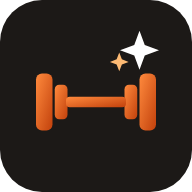
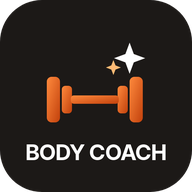
Cortex: fila divide tarefa na 3ª falha, assetlinks soma digitais, ícone do Body Coach com o nome
Claude-Session: https://claude.ai/code/session_01PUFwwAxWjj2KxLM3SCA1LX

diff --git a/scripts/cortex-fila.js b/scripts/cortex-fila.js
@@ -7,6 +7,7 @@ const REPO = process.env.REPO || 'gilcambe/nexia';
 const BASE_URL = process.env.NEXIA_URL || 'https://nexia.gcbezerra.workers.dev';
 const PISTAS = 3;
 const MAX_TENTATIVAS = 12;
+const TENTATIVAS_ATE_DIVIDIR = 3;
 const CONFIAVEIS = ['OWNER', 'MEMBER', 'COLLABORATOR'];
 const L = { fila: 'cortex-fila', rodando: 'cortex-rodando', feito: 'cortex-feito', travado: 'cortex-travado', dividido: 'cortex-dividido', parte: 'cortex-parte', semDivisao: 'cortex-sem-divisao' };
 const MAX_CORPO = 2500;      // tarefa maior que isso é dividida em partes pequenas
@@ -81,6 +82,10 @@ function decidir({ issues, runs, agora = Date.now(), pistas = PISTAS }) {
       if (run.conclusion === 'success') { acoes.push({ tipo: 'concluir', numero: i.number, run: run.id, corpo: String(i.body || '') }); continue; }
       if (run.cota) { acoes.push({ tipo: 'reenfileirar', numero: i.number, tentativa: numeroDe(ls, 'tentativa'), run: run.id, conclusao: 'cota do banco' }); continue; }
       const t = numeroDe(ls, 'tentativa') + 1;
+      // Falhou 3 vezes inteira: o modelo grátis não dá conta do tamanho. Divide em partes pequenas em vez de repetir até travar.
+      if (t === TENTATIVAS_ATE_DIVIDIR && !parteDe(i) && !ls.includes(L.parte) && !ls.includes(L.dividido) && !ls.includes(L.semDivisao)) {
+        acoes.push({ tipo: 'dividir', numero: i.number, titulo: i.title || '', tarefa: String(i.body || '').trim(), limpar: true, tentativa: t }); continue;
+      }
       acoes.push(t >= MAX_TENTATIVAS
         ? { tipo: 'travar', numero: i.number, tentativas: t, run: run.id }
         : { tipo: 'reenfileirar', numero: i.number, tentativa: t, run: run.id, conclusao: run.conclusion });
@@ -195,6 +200,12 @@ async function executar(token, acao, dividir) {
   const delLabel = l => gh(token, 'DELETE', `/issues/${n}/labels/${encodeURIComponent(l)}`);
   const comentar = t => gh(token, 'POST', `/issues/${n}/comments`, { body: `${t}\n\n---\n_Generated by [Claude Code](https://claude.ai/code)_` });
   if (acao.tipo === 'dividir') {
+    if (acao.limpar) {
+      // Veio de uma tarefa que falhou: sai da pista (rodando) e anota a tentativa; se a divisão falhar, ela volta inteira para a fila.
+      await delLabel(L.rodando);
+      for (const k of [1, 2, 3]) await delLabel(`pista-${k}`).catch(() => null);
+      if (acao.tentativa) await addLabel(`tentativa-${acao.tentativa}`);
+    }
     const partes = dividir ? await dividir(acao.tarefa) : null;
     if (!partes) { await addLabel(L.semDivisao); await comentar('Não consegui dividir esta tarefa agora; ela segue inteira.'); return; }
     const criadas = [];
@@ -323,5 +334,5 @@ async function main() {
   }
 }
 
-module.exports = { caminhosDoPedido, sondarCota, decidir, precisaTesteFinal, precisaDividir, paisConcluidos, dividirComIA, MAX_TENTATIVAS };
+module.exports = { TENTATIVAS_ATE_DIVIDIR, caminhosDoPedido, sondarCota, decidir, precisaTesteFinal, precisaDividir, paisConcluidos, dividirComIA, MAX_TENTATIVAS };
 if (require.main === module) main().catch(e => { console.error(e.message); process.exit(1); });

diff --git a/tests/unit/cortex-fila.test.js b/tests/unit/cortex-fila.test.js
@@ -19,9 +19,9 @@ test('CF2. ignora Issue de quem não é dono/membro/colaborador e pull requests'
 });
 
 test('CF3. execução com sucesso conclui; falha reenfileira com tentativa+1', () => {
-  const a = decidir({ issues: [issue(1, ['cortex-rodando', 'pista-1']), issue(2, ['cortex-rodando', 'pista-2', 'tentativa-2'])], runs: [run(1, 'completed', 'success'), run(2, 'completed', 'failure')], agora: AGORA });
+  const a = decidir({ issues: [issue(1, ['cortex-rodando', 'pista-1']), issue(2, ['cortex-rodando', 'pista-2', 'tentativa-3'])], runs: [run(1, 'completed', 'success'), run(2, 'completed', 'failure')], agora: AGORA });
   assert.equal(a[0].tipo, 'concluir');
-  assert.deepEqual([a[1].tipo, a[1].tentativa], ['reenfileirar', 3]);
+  assert.deepEqual([a[1].tipo, a[1].tentativa], ['reenfileirar', 4]);
 });
 
 test('CF4. na última tentativa trava e avisa', () => {
@@ -115,4 +115,17 @@ test('FILA-CAM: caminhosDoPedido pega só arquivos entre crases com pasta', () =
   const { caminhosDoPedido } = require('../../scripts/cortex-fila');
   assert.deepEqual(caminhosDoPedido('Crie `src/a/b.ts` e `README.md` e `/health` e `../x/y.js` e `src/a/b.ts`'), ['src/a/b.ts']);
   assert.deepEqual(caminhosDoPedido('sem nada'), []);
+});
+
+test('FILA-DIV3. tarefa que falha 3 vezes é dividida em partes em vez de repetir até travar', () => {
+  const { decidir } = require('../../scripts/cortex-fila.js');
+  const issue = (extra = []) => ({ number: 9, title: 'NEXIA: loja grande', body: 'Faça a loja.', author_association: 'OWNER', labels: ['cortex-fila', 'cortex-rodando', 'pista-1', 'tentativa-2', ...extra].map(name => ({ name })) });
+  const runs = [{ id: 5, name: 'Cortex #9', status: 'completed', conclusion: 'failure' }];
+  const a = decidir({ issues: [issue()], runs, agora: Date.now() }).find(x => x.numero === 9);
+  assert.equal(a.tipo, 'dividir');
+  assert.equal(a.limpar, true);
+  assert.equal(a.tentativa, 3);
+  // já dividida antes (sem divisão): continua o caminho normal de repetir
+  const b = decidir({ issues: [issue(['cortex-sem-divisao'])], runs, agora: Date.now() }).find(x => x.numero === 9);
+  assert.equal(b.tipo, 'reenfileirar');
 });

diff --git a/tests/unit/divulga.test.js b/tests/unit/divulga.test.js
@@ -87,3 +87,22 @@ test('chave com quebra de linha no fim (salva pelo PowerShell) funciona', async 
   assert.ok(corpos[0].includes('/1/photos'));
   assert.ok(corpos[0].includes('access_token=tok') && !corpos[0].includes('%0D'));
 });
+
+test('Cortex: anexo de qualquer tipo vai para o ramo cortex-anexos e rodapé antigo some', async () => {
+  const { agir } = require('../../netlify/functions/central/pedidos-acoes');
+  const chamadas = [];
+  const p = { gh: async (url, init) => { chamadas.push([url, init && init.method]); if (/git\/ref\/heads\/cortex-anexos/.test(url)) throw new Error('404'); if (/heads\/develop/.test(url)) return { object: { sha: 'abc' } }; return {}; } };
+  const r = await agir(p, { acao: 'anexar', nome: 'Captura de tela (1).png', base64: 'QUJD' }, 'dono');
+  assert.equal(r.status, 200);
+  assert.match(r.corpo.caminho, /^cortex-anexos\/\d{4}-\d{2}-\d{2}-[a-z0-9]+-Captura-de-tela-1-\.png$/);
+  assert.ok(chamadas.some(([u, m]) => /git\/refs$/.test(u) && m === 'POST'));
+  assert.ok(chamadas.some(([u, m]) => /contents\/cortex-anexos\//.test(u) && m === 'PUT'));
+  assert.equal((await agir(p, { acao: 'anexar', nome: 'x', base64: 'A'.repeat(960000) }, 'dono')).status, 400);
+  assert.equal((await agir(p, { acao: 'anexar', nome: 'x', base64: '<script>' }, 'dono')).status, 400);
+  const { montarPedido } = require('../../netlify/functions/central/pedidos-pedir');
+  assert.ok(!/no celular por/i.test(montarPedido('Mudar o texto do botão no Body Coach', 'dono').body));
+  const { criarDetalhe } = require('../../netlify/functions/central/pedidos-detalhe');
+  const gh = async (u) => (/comments/.test(u) ? [] : /search/.test(u) ? { items: [] } : { number: 1, title: 't', state: 'open', labels: [], user: { login: 'a' }, created_at: 'x', updated_at: 'x', body: 'Faça isso.\n\n_Pedido pelo Cortex no celular por gil@x.com._', comments: 0 });
+  const d = await criarDetalhe(gh)(1);
+  assert.ok(!/celular/i.test(d.conversa[0].texto));
+});

diff --git a/cloudflare/app.js b/cloudflare/app.js
@@ -222,9 +222,10 @@ async function handleRequest(request, env, { getFunction }) {
   }
   if (pathname === '/.well-known/assetlinks.json') {
     const base = require('../apps/body-coach/android/assetlinks.json');
-    // Digitais da chave do app (ASSETLINKS_SHA256, separadas por vírgula): sem elas o Android abre o app como aba do Chrome.
+    // Digitais extras do app (ASSETLINKS_SHA256, separadas por vírgula): sem elas o Android abre o app como aba do Chrome.
     const digitais = String(env.ASSETLINKS_SHA256 || '').split(',').map(x => x.trim().toUpperCase()).filter(x => /^([0-9A-F]{2}:){31}[0-9A-F]{2}$/.test(x));
-    const links = digitais.length ? base.map(l => ({ ...l, target: { ...l.target, sha256_cert_fingerprints: digitais } })) : base;
+    // Acrescenta às digitais do arquivo (chave de envio): com a Play, a chave que assina o app instalado é outra (Assinatura de apps do Play Console).
+    const links = digitais.length ? base.map(l => ({ ...l, target: { ...l.target, sha256_cert_fingerprints: [...new Set([...(l.target.sha256_cert_fingerprints || []), ...digitais])] } })) : base;
     return json(200, links, { 'Cache-Control': 'public, max-age=3600', 'Access-Control-Allow-Origin': '*' });
   }
   if (pathname === '/health') {

diff --git a/tests/unit/cloudflare-host.test.js b/tests/unit/cloudflare-host.test.js
@@ -265,11 +265,13 @@ test('CF-BC. Worker: assetlinks.json do app Android e redirecionamento do link a
   assert.strictEqual(p.status, 200);
 });
 
-test('CF-BC2. assetlinks.json usa as digitais de ASSETLINKS_SHA256 e ignora lixo', async () => {
+test('CF-BC2. assetlinks.json soma as digitais de ASSETLINKS_SHA256 às do arquivo e ignora lixo', async () => {
   const fp = n => Array.from({ length: 32 }, (_, i) => ((i * n) % 256).toString(16).padStart(2, '0').toUpperCase()).join(':');
   const env = { ASSETS: fakeAssets(FILES), ASSETLINKS_SHA256: `${fp(3)}, ${fp(5)}, lixo` };
   const r = await handleRequest(new Request('https://nexia.gcbezerra.workers.dev/.well-known/assetlinks.json'), env, { getFunction: () => null });
   const j = await r.json();
-  assert.deepStrictEqual(j[0].target.sha256_cert_fingerprints, [fp(3), fp(5)]);
+  const doArquivo = require('../../apps/body-coach/android/assetlinks.json')[0].target.sha256_cert_fingerprints;
+  assert.deepStrictEqual(j[0].target.sha256_cert_fingerprints, [...doArquivo, fp(3), fp(5)]);
+  assert.ok(j.some(l => l.target.package_name === 'app.nexia.cortex'));
   assert.strictEqual(j[0].target.package_name, 'app.nexia.bodycoach');
 });
